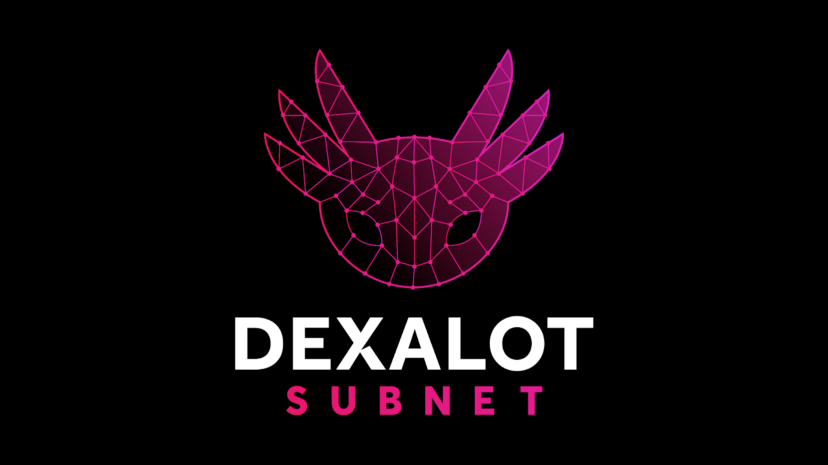
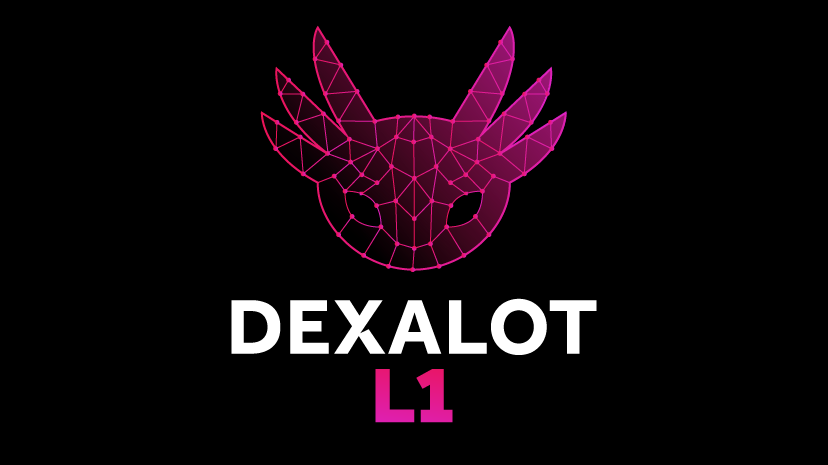
the most visible Subnet to L1 changes

Changed region(s): [[0.2717, 0.0602, 0.7246, 0.9333]]

diff --git a/docs/.vuepress/sidebar/en.ts b/docs/.vuepress/sidebar/en.ts
@@ -20,11 +20,6 @@ export const enSidebarConfig = sidebar({
           link: "guide"
         },
         {
-          text: "Dexalot L1 Node",
-          icon: "book-open",
-          link: "runanode"
-        },
-        {
           text: "Dexalot Incentive Program",
           icon: "book-open",
           link: "dip"
@@ -80,14 +75,19 @@ export const enSidebarConfig = sidebar({
       prefix: "tutorials/",
       children: [
         {
-          text: "Dexalot Subnet Intro",
+          text: "Dexalot L1 Intro",
           icon: "play",
           link: "howtouse"
         },
         {
-          text: "Dexalot Subnet Testing",
+          text: "Dexalot L1 Testing",
           icon: "play",
           link: "howtotest"
+        },
+        {
+          text: "Run a Dexalot L1 Node",
+          icon: "book-open",
+          link: "runanode"
         },
         {
           text: "Metamask Install",

diff --git a/docs/.vuepress/sidebar/vi.ts b/docs/.vuepress/sidebar/vi.ts
@@ -10,12 +10,12 @@ export const viSidebarConfig = sidebar({
       prefix: "/vi/articles/",
       children: [
         {
-          text: "Dexalot Subnet",
+          text: "Dexalot L1",
           icon: "book-open",
           link: "subnet"
         },
         {
-          text: "Hướng dẫn Dexalot Subnet",
+          text: "Hướng dẫn Dexalot L1",
           icon: "book-open",
           link: "guide"
         },
@@ -65,12 +65,12 @@ export const viSidebarConfig = sidebar({
       prefix: "/vi/tutorials/",
       children: [
         {
-          text: "Mạng con Dexalot",
+          text: "Mạng con Dexalot L1",
           icon: "play",
           link: "howtouse"
         },
         {
-          text: "Thử nghiệm công khai Dexalot-Subnet",
+          text: "Thử nghiệm công khai Dexalot L1",
           icon: "play",
           link: "howtotest"
         },

diff --git a/docs/.vuepress/sidebar/es.ts b/docs/.vuepress/sidebar/es.ts
@@ -10,12 +10,12 @@ export const esSidebarConfig = sidebar({
       prefix: "/es/articles/",
       children: [
         {
-          text: "La Dexalot Subnet",
+          text: "La Dexalot L1",
           icon: "book-open",
           link: "subnet"
         },
         {
-          text: "Guia Subnet de Dexalot",
+          text: "Guia L1 de Dexalot",
           icon: "book-open",
           link: "guide"
         },
@@ -64,12 +64,12 @@ export const esSidebarConfig = sidebar({
       prefix: "/es/tutorials/",
       children: [
         {
-          text: "Introducción a la Dexalot Subnet",
+          text: "Introducción a la Dexalot L1",
           icon: "play",
           link: "howtouse"
         },
         {
-          text: "Testing de la Dexalot-Subnet",
+          text: "Testing de la Dexalot L1",
           icon: "play",
           link: "howtotest"
         },

diff --git a/docs/.vuepress/sidebar/tr.ts b/docs/.vuepress/sidebar/tr.ts
@@ -10,12 +10,12 @@ export const trSidebarConfig = sidebar({
       prefix: "/tr/articles/",
       children: [
         {
-          text: "Dexalot Subnet",
+          text: "Dexalot L1",
           icon: "book-open",
           link: "subnet"
         },
         {
-          text: "Dexalot Subnet Rehberi",
+          text: "Dexalot L1 Rehberi",
           icon: "book-open",
           link: "guide"
         },
@@ -64,12 +64,12 @@ export const trSidebarConfig = sidebar({
       prefix: "/tr/tutorials/",
       children: [
         {
-          text: "Subnet’e giriş",
+          text: "L1'e giriş",
           icon: "play",
           link: "howtouse"
         },
         {
-          text: "Dexalot-Subnet Testi",
+          text: "Dexalot L1 Testi",
           icon: "play",
           link: "howtotest"
         },

diff --git a/docs/tutorials/howtotest/README.md b/docs/tutorials/howtotest/README.md
@@ -2,15 +2,15 @@
 editLink: true
 ---
 
-# The Dexalot-Subnet Public Testing
+# The Dexalot L1 Public Testing
 
  ## How to Test
 
 ![Dextr](/images/howtotest/dextrcomp.png)
 
-The Dexalot team is happy to present the Dexalot-Subnet for public testing. The dev team spent months of non-stop programming writing smart contracts and other code to migrate Dexalot’s Mainnet to the Dexalot Subnet. Dexalot would love your help to make the Dexalot Subnet even better. We are grateful to the community for helping us to get here. Thank you for helping us to get to the next stage in the development of Dexalot.
+The Dexalot team is happy to present the Dexalot L1 for public testing. The dev team spent months of non-stop programming writing smart contracts and other code to migrate Dexalot’s Mainnet to the Dexalot L1. Dexalot would love your help to make the Dexalot L1 even better. We are grateful to the community for helping us to get here. Thank you for helping us to get to the next stage in the development of Dexalot.
 
-Since the Subnet is essentially just like the Mainnet you are familiar with, you can just connect and use it.
+Since Dexalot L1 is essentially just like the Mainnet you are familiar with, you can just connect and use it.
 
  **Navigate to [this URL](https://app.dexalot-test.com/trade) and you are good to go.**
 
@@ -22,47 +22,47 @@ This is a public beta and we hope the community can help us stress-test our syst
 
 The Dexalot developers will address as many bugs and usability issues as possible. Please report back any observations and concerns you would like the team to examine. Please attach screenshots of your concerns and enough information including transaction ids to assist them in addressing your observations and they will make changes as necessary.
 
-You can email the team your report at [support@dexalot.com](support@dexalot.com). Dexalot community managers and moderators are available in Discord to help you and you may leave your comments in the Subnet Testing thread within the #Subnet channel. See you there!
+You can email the team your report at [support@dexalot.com](support@dexalot.com). Dexalot community managers and moderators are available in Discord to help you and you may leave your comments in the L1 Testing thread within the #Subnet channel. See you there!
 
 **Happy Testing!!**
 
 ## **Architecture**
 
-Dexalot’s new architecture is accessed through its front end, which has been upgraded to be Mainnet and Subnet aware simultaneously. The novel dual-chain architecture allows Dexalot to unload more demanding operations to the subnet, reducing the gas cost while increasing speed.
+Dexalot’s new architecture is accessed through its front end, which has been upgraded to be Mainnet and L1 aware simultaneously. The novel dual-chain architecture allows Dexalot to unload more demanding operations to the subnet, reducing the gas cost while increasing speed.
 
-The frontend app is similar to the single-chain implementation already in place, while the underlying contracts, backend, and database architecture have all seen substantial changes. There is no separate bridging interface. All bridge functionality is integrated into Dexalot’s Mainnet smart contracts portfolio (PortfolioMain) and Subnet portfolio (PortfolioSub) to provide a seamless user experience for you. LayerZero will be the sole bridge provider at the start, and more bridges could be added in the future as needed.
+The frontend app is similar to the single-chain implementation already in place, while the underlying contracts, backend, and database architecture have all seen substantial changes. There is no separate bridging interface. All bridge functionality is integrated into Dexalot’s Mainnet smart contracts portfolio (PortfolioMain) and L1 portfolio (PortfolioSub) to provide a seamless user experience for you. LayerZero will be the sole bridge provider at the start, and more bridges could be added in the future as needed.
 
 ![roadmap](/images/howtotest/roadmp.png)
 
-This approach allows Dexalot to scale to multiple bridges (to further reduce risk from single points of failure) and for assets in chains other than Avalanche to be tradeable on the Dexalot-Subnet.
+This approach allows Dexalot to scale to multiple bridges (to further reduce risk from single points of failure) and for assets in chains other than Avalanche to be tradeable on the Dexalot L1.
 
 ## Things to remember, new features and key concepts
 
 * One can deposit an asset only when connected to the Mainnet. The deposit locks the user’s asset on the PortfolioMain and deposits the same amount in the PortfolioSub all in one transaction.
 
-* Users will have two wallets for each account: one in the Mainnet and one in the Subnet accessible through supported wallet applications like Core, MetaMask and WalletConnect providers. More wallets will be added in the future.
+* Users will have two wallets for each account: one in the Mainnet and one in the L1 accessible through supported wallet applications like Core, MetaMask and WalletConnect providers. More wallets will be added in the future.
 
 * The Mainnet wallet holds all assets in the Mainnet as before, and assets need to be deposited into Dexalot there for trading. All bridge functions are integrated into deposit and withdrawal actions.
 
-* The Subnet wallet holds only $ALOT for gas payments. That’s why the Subnet wallet is also referred to as the “Gas Tank”.
+* The L1 wallet holds only $ALOT for gas payments. That’s why the L1 wallet is also referred to as the “Gas Tank”.
 
 ![submaintank](/images/howtotest/submaintank.png)
 
-* “Add Gas” transfers ALOT from portfolioSub to the Subnet wallet.
+* “Add Gas” transfers ALOT from portfolioSub to the L1 wallet.
 
-* “Remove Gas” transfers ALOT from the Subnet wallet to PortfolioSub.
+* “Remove Gas” transfers ALOT from the L1 wallet to PortfolioSub.
 
 ![addrmgas](/images/howtotest/addrmgas.png)
 
-* ALOT available in the PortfolioSub transferred from the Mainnet wallet or the Subnet wallet (“Gas Tank”) can be used in trading or withdrawals.
+* ALOT available in the PortfolioSub transferred from the Mainnet wallet or the L1 wallet (“Gas Tank”) can be used in trading or withdrawals.
 
-* PortfolioSub tracks the Total and Available balances of a users’ assets without creating any ERC20s in the Subnet. These balances are updated when deposit, withdrawal and trading functions are used.
+* PortfolioSub tracks the Total and Available balances of a users’ assets without creating any ERC20s in the L1. These balances are updated when deposit, withdrawal and trading functions are used.
 
-* As there are no ERC20 tokens in the Subnet, only the ALOT balance (“Gas Tank” balance) will be visible in the wallets like Core or MetaMask when connected to the Subnet.
+* As there are no ERC20 tokens in the L1, only the ALOT balance (“Gas Tank” balance) will be visible in the wallets like Core or MetaMask when connected to the L1.
 
-* All trading is done while connected to the Subnet.
+* All trading is done while connected to the L1.
 
-* One can withdraw an asset only when connected to the Subnet. The withdrawal removes the amount from the PortfolioSub and unlocks the same amount from the PortfolioMain, subsequently transferring the withdrawn asset to the user’s Mainnet wallet all in one transaction.
+* One can withdraw an asset only when connected to the L1. The withdrawal removes the amount from the PortfolioSub and unlocks the same amount from the PortfolioMain, subsequently transferring the withdrawn asset to the user’s Mainnet wallet all in one transaction.
 
 * Additional bridges will be introduced in the future by deploying multiple PortfolioMain contracts for different chains.
 
@@ -72,9 +72,9 @@ Please note the following points during your tests:
 
 1.  For every task below keep track of your amounts in your wallets as well as portfolio total and available. Make sure the amounts add up to what you are expecting to see. Make these sanity checks as you carry on with your tests.
 
-2.  6–12 blocks need to be created before a deposit or withdrawal is committed to the chain as it involves a message transfer over the bridge. As the activity on Fuji is relatively high the rate-limiting step will be the activity on the Subnet. Depending on the level of Subnet activity, the transfer operations may be delayed. If funds are not delivered even after 1 hour please alert the dev team via support channels as the bridge may be blocked.
+2.  6–12 blocks need to be created before a deposit or withdrawal is committed to the chain as it involves a message transfer over the bridge. As the activity on Fuji is relatively high the rate-limiting step will be the activity on the L1. Depending on the level of L1 activity, the transfer operations may be delayed. If funds are not delivered even after 1 hour please alert the dev team via support channels as the bridge may be blocked.
 
-* Deposit from the Mainnet to the Subnet at least for the following three assets (for convenience the Fuji addresses of assets supported in the Subnet are included):
+* Deposit from the Mainnet to the L1 at least for the following three assets (for convenience the Fuji addresses of assets supported in the L1 are included):
 
 * AVAX (native)
 
@@ -90,11 +90,11 @@ One of
 
 4. USDT.e (0x2B62a6c0C750250034e328547Aa38830bd768a18)
 
-Switch to the Subnet and enter at least 4 maker orders (2 sell and 2 buy orders) for each of your assets.
+Switch to the L1 and enter at least 4 maker orders (2 sell and 2 buy orders) for each of your assets.
 
 * Use “Replace Order” for each asset at least once to change one parameter of the order.
 
-* Use the new “Send in Subnet” functionality to send funds to another account you have.
+* Use the new “Send within Dexalot” functionality to send funds to another account you have.
 
 * From another account, enter at least 1 taker order for each of your assets.
 

diff --git a/docs/tutorials/howtouse/README.md b/docs/tutorials/howtouse/README.md
@@ -2,30 +2,30 @@
 editLink: true
 ---
 
-# The Dexalot-Subnet
+# The Dexalot L1
 
 **an introduction — How to Use**
 
 ![Subnetlogo](/images/howtouse/Subnetlogo.png)
 
-The new Dexalot Subnet is now ready for you to test and try out!
+The new Dexalot L1 is now ready for you to test and try out!
 
 After months [of building and testing](https://medium.com/dexalot/the-dexalot-subnet-96b2a05cb435) everyone can join in and enjoy the beta version of the first DeFi CLOB (central limit order book) on Avalanche.
 
-This Avalanche Subnet is [a dual-chain application](https://medium.com/dexalot/the-dexalot-subnet-96b2a05cb435) containing both a Mainnet and a Subnet. By executing trades with the Dexalot token ALOT on the Dexalot Subnet, transaction gas fees are kept amazingly low. Navigate [here](https://app.dexalot-test.com/trade) and you are good to go.
+This Dexalot L1 is [a dual-chain application](https://medium.com/dexalot/the-dexalot-subnet-96b2a05cb435) containing both a Mainnet and a L1 (formerly Subnet). By executing trades with the Dexalot token ALOT on the Dexalot L1, transaction gas fees are kept amazingly low. Navigate [here](https://app.dexalot-test.com/trade) and you are good to go.
 
-Here is an Introduction to Dexalot’s new Subnet Beta application.
+Here is an Introduction to Dexalot’s new L1 Beta application.
 
 <YouTube id="vRvaswPuMNg" />
 
 ## The Dashboard
 The website dashboard is similar to what you are already familiar with. Connect your wallet (Core, Metamask, and WalletConnect) just as you have done before. If you need a refresher, watch [these tutorials](https://medium.com/dexalot/tagged/dexalot-tutorial) and learn the [basics](https://medium.com/dexalot/learn-the-basics-e893a62261a3).
 
-Next to the wallet connect button is a drop-down menu for switching between the Mainnet and the Subnet. Since this is an application on the Avalanche test network you see “Fuji” listed as the Mainnet.
+Next to the wallet connect button is a drop-down menu for switching between the Mainnet and the L1. Since this is an application on the Avalanche test network you see “Fuji” listed as the Mainnet.
 
 ![connect](/images/howtouse/connect.png)
 
-The subnet [uses $ALOT, the Dexalot token, to pay for gas](https://medium.com/dexalot/the-dexalot-subnet-96b2a05cb435) and these funds are held for you in a “gas” tank on the Subnet. You can add or remove gas at any time.
+The subnet [uses $ALOT, the Dexalot token, to pay for gas](https://medium.com/dexalot/the-dexalot-subnet-96b2a05cb435) and these funds are held for you in a “gas” tank on the L1. You can add or remove gas at any time.
 
 ![subnetgasttank](/images/howtouse/subnetgastank.png)
 
@@ -49,21 +49,21 @@ Click on the Portfolio tab and at the right of the Avax token line… you will s
 
 ![subnetdeposit](/images/howtouse/subnetdeposit.png)
 
-Now before you can start trading you need to connect to the Subnet.
+Now before you can start trading you need to connect to the L1.
 
-To do that click on the drop-down next to the wallet connect button and select - Dexalot-Subnet.
+To do that click on the drop-down next to the wallet connect button and select - Dexalot L1.
 
 ![networkswitch](/images/howtouse/networkswitch.png)
 
 Since $ALOT is used as the gas token you have the option of adding or removing ALOT from your gas tank — the place designed to pay your gas fees associated with your transactions.
 
-You are now in the Dexalot-Subnet so when you click on the three-dot menu next to the token of your choice you have a few different options including to withdraw your token amounts back to your wallet in the Mainnet.
+You are now in the Dexalot L1 so when you click on the three-dot menu next to the token of your choice you have a few different options including to withdraw your token amounts back to your wallet in the Mainnet.
 
 ![withdraw](/images/howtouse/withdraw.png)
 
 ## New Features
 
-A new option “Send in Subnet” permits you to send tokens to any address of your choosing directly from within the Dexalot-Subnet.
+A new option “Send within Dexalot” permits you to send tokens to any address of your choosing directly from within the Dexalot L1.
 
 Another feature is the addition of new trade types available in the Trade tab.
 
@@ -84,7 +84,7 @@ The transfers tab now also has more information available to you, including wher
 
 ![transferstab](/images/howtouse/transferstab.png)
 
-Dexalot is looking to complete thorough testing of the Dexalot-Subnet and we are thankful to everyone for providing crucial feedback. You too can help improve the Subnet by simply following the steps outlined above and report back any comments, observations or issues encountered. You can read a detailed guide to testing the Dexalot-Subnet [here](https://medium.com/dexalot/the-dexalot-subnet-public-testing-4bea8bc80521). You may send your test results to [support@dexalot.com](support@dexalot.com ) or simply chat with moderators on Dexalot Discord.
+Dexalot is looking to complete thorough testing of the Dexalot L1 and we are thankful to everyone for providing crucial feedback. You too can help improve the L1 by simply following the steps outlined above and report back any comments, observations or issues encountered. You can read a detailed guide to testing the Dexalot L1 [here](https://medium.com/dexalot/the-dexalot-subnet-public-testing-4bea8bc80521). You may send your test results to [support@dexalot.com](support@dexalot.com ) or simply chat with moderators on Dexalot Discord.
 
 **Thanks for being a part of this exciting development of Web 3.0, DeFi and the growth of the Avalanche ecosystem with Dexalot. Welcome aboard.**
 

diff --git a/docs/articles/subnet/README.md b/docs/articles/subnet/README.md
@@ -10,7 +10,7 @@ An innovative exchange on the horizontal scaling paradigm of the Avalanche ecosy
 
 The Dexalot team has been working hard building our Avalanche L1, and it’s almost here! Our L1 is currently being tested in the Avalanche Fuji test network, so users are sure to enjoy a newly enhanced trading experience once complete. Cheaper transaction fees, better liquidity, and blazing speed are just a few of the many new features coming with the subnet. Let’s take a look at the novel structure of the new Dexalot and how it establishes a foundation for a multi-chain future as an Avalanche L1.
 
-The original Dexalot Testnet was introduced on August 6, 2021, followed by the Mainnet launch on Dec 6, 2021. Subsequently, the [Dexalot L1 Testnet](https://medium.com/dexalot/the-dexalot-subnet-c08605afdf64) was created on April 25, 2022. Simply said, all chain environments are being updated as Dexalot migrates to the new architecture.
+The original Dexalot Testnet was introduced on August 6, 2021, followed by the Mainnet launch on Dec 6, 2021. Subsequently, the [Dexalot Subnet Testnet](https://medium.com/dexalot/the-dexalot-subnet-c08605afdf64) was created on April 25, 2022. Simply said, all chain environments are being updated as Dexalot migrates to the new architecture.
 
 The new Dexalot is a dual-chain application existing on both the Avalanche C-Chain (Mainnet) and Dexalot L1 (Subnet). The Mainnet and L1 communicate by generic message passing with the use of high-end bridge technologies. Previously, trading on Dexalot meant that all of your actions were sent to a single blockchain, but that’s changing in a big way. Dexalot’s new architecture allows for interaction between multiple blockchains from its frontend, instead of just one. This is not only more efficient but also paves the way for future innovations.
 
